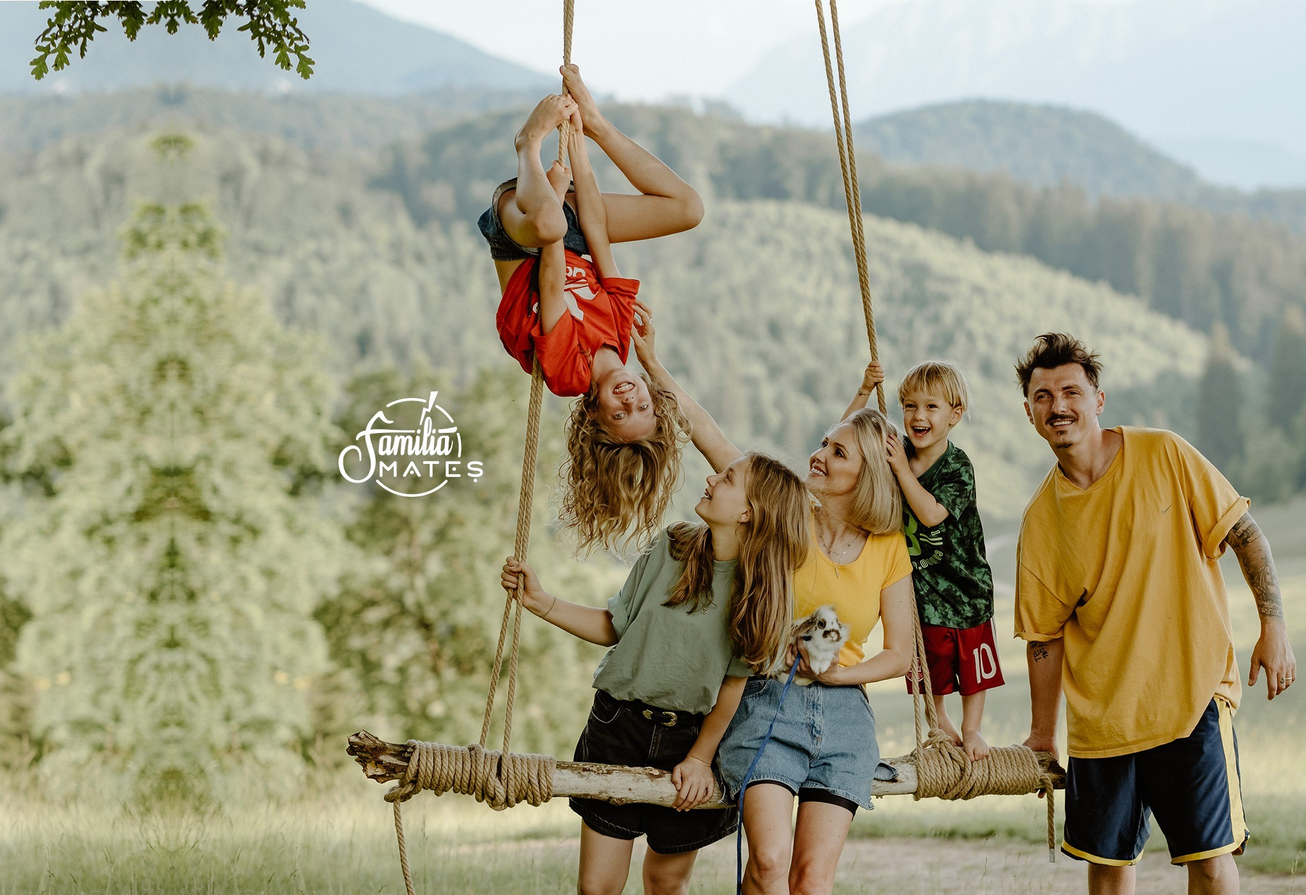
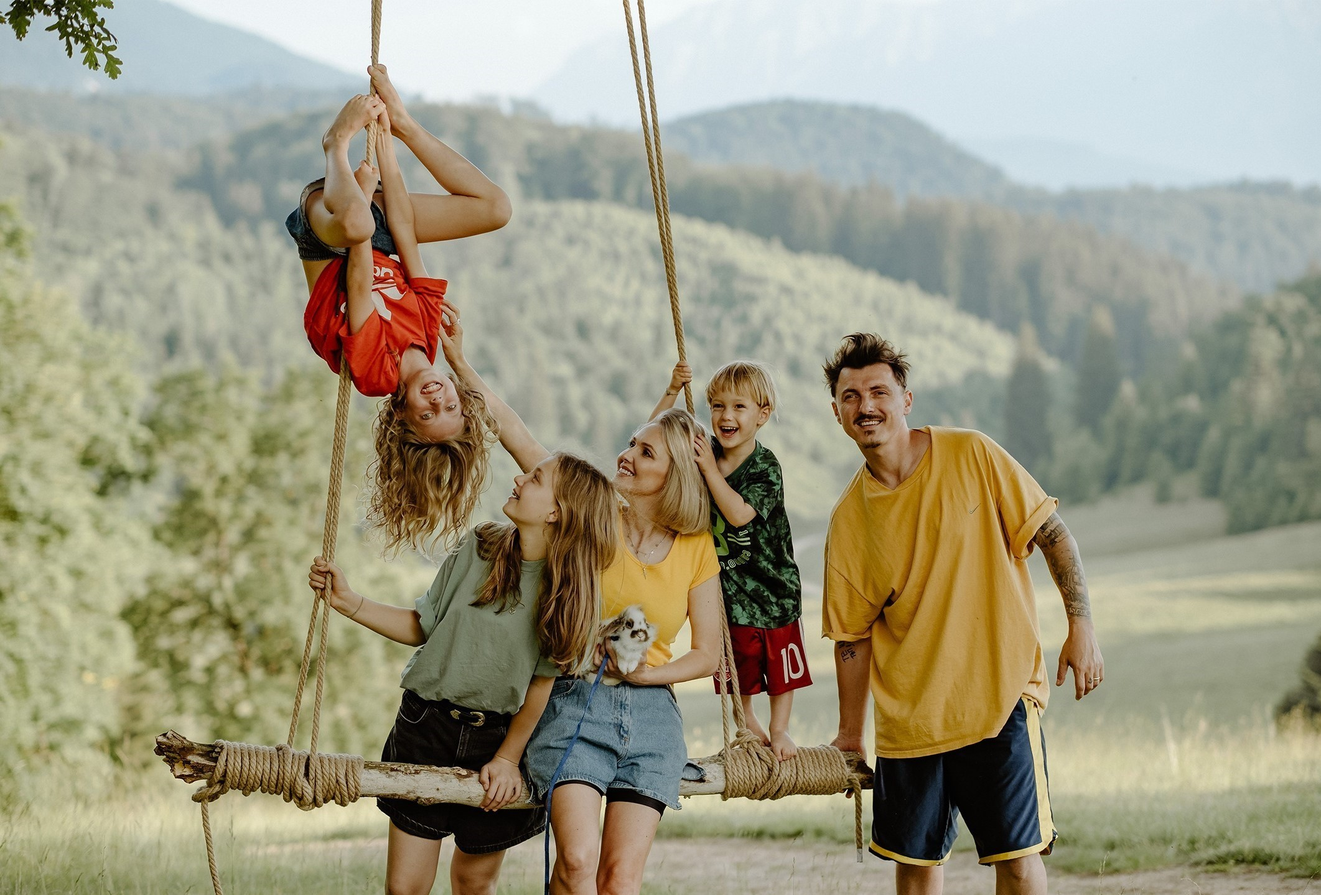
header section - push 3

diff --git a/html/index.html b/html/index.html
@@ -23,26 +23,33 @@
 <body>
 	<!-- START HEADER -->
 	<header>
+		<nav>
+			<div id="logo">
+				<div>PRIZED</div>
+			</div>
+
+		</nav>
+		<section id="header-image">
+
+		</section>
 	</header>
 	<!-- END HEADER -->
 
 	<!-- START MAIN -->
 	<main>
-		<section id="cum-particip" class="centered-section">
-			<div class="section-heading">
-				<hr>
-				<div>Cum particip?</div> 
-				<hr>
+		<section id="title">
+			<div id="sub-heading">
+				Doneaza si ai sansa sa castigi
 			</div>
-			<div class="section-content three-column-grid">
-				<img class="icon" src="resources/images/main/step1.png">
-				<img class="icon" src="resources/images/main/step2.png">
-				<img class="icon" src="resources/images/main/step3.png">
-				<p>Doneaza ca sa participi</p>
-				<p>Un castigator va fi ales </p>
-				<p>Donatia ta ajuta</p>
+			<div id="heading">
+				Castiga o zi de neuitat impreuna <br>cu Familia Mates!
 			</div>
-			
+		</section>
+		<section id="apply">
+			<div class="three-column-grid">
+
+			</div>
+			<div></div>
 		</section>
 		<section id="ce-castig" class="split-section">
 			<div class="section-heading">
@@ -66,6 +73,23 @@
 			</div>
 			<div class="section-content right-side">
 				<img src="resources/images/main/side-img.jpg">
+			</div>
+			
+		</section>
+		
+		<section id="cum-particip" class="centered-section">
+			<div class="section-heading">
+				<hr>
+				<div>Cum particip?</div> 
+				<hr>
+			</div>
+			<div class="section-content three-column-grid">
+				<img class="icon" src="resources/images/main/step1.png">
+				<img class="icon" src="resources/images/main/step2.png">
+				<img class="icon" src="resources/images/main/step3.png">
+				<p>Doneaza ca sa participi</p>
+				<p>Un castigator va fi ales </p>
+				<p>Donatia ta ajuta</p>
 			</div>
 			
 		</section>
@@ -101,9 +125,15 @@
 			<div class="section-content">
 				<div class="three-column-grid">
 					<div id="option-1" class="donation-box">
-						<div>100 de sanse</div>
-						<a href="#">Doneaza 10 ROM </a>
-						<div>Sanse duble</div>
+						<div class="donation-label">
+							100 de sanse
+						</div>
+						<a href="#" class="donation-button">
+							Doneaza 10 ROM
+						</a>
+						<div class="donation-tag">
+							Sanse duble
+						</div>
 					</div>
 					<div id="option-2" class="donation-box">
 						<div>100 de sanse</div>

diff --git a/resources/css/main.css b/resources/css/main.css
@@ -14,7 +14,7 @@ section,footer{
 	justify-items: center;
 	align-items: center;
 
-	padding: 2em 5em;
+	padding: 2em 2em;
 	
 }
 
@@ -86,6 +86,8 @@ section,footer{
 .three-column-grid{
 	display: grid;
 	grid-template-columns: 1fr 1fr 1fr;
+	column-gap: 1em;;
+	row-gap: 1em;;
 
 	justify-items: center;
 	width: 100%;
@@ -106,19 +108,100 @@ section,footer{
 	font-style: unset;
 }
 
-/* DONATION BOX */
+/* HEADER */
 
-.donation-box{
-	border:1px solid black;
-	margin: 1em;
-	padding: 1em;
-	text-align: center;
+header nav{
+	display: table;
+	box-sizing: border-box;
+	height: 3em;
 	width: 100%;
+
+	position: fixed;
+	top: 0;
+	left: 0;
+
+	background-color: #2b3538;
+}
+
+#logo{
+	box-sizing: border-box;
+	display: table-cell;
+	vertical-align: middle;
+	padding: 0 2em;
+}
+
+#logo div{
+
+	max-width: 1150px;
+	margin: 0 auto;
+	color:white;
+
+	font-family: 'Spartan', sans-serif;
+	font-weight: 600;
+	font-size: 1.2em;
+	text-align: center;
 
 }
 
-.donation-box div:first-child{
-	border-bottom:1px solid black;
+#header-image{
+	background: url("../images/main/main-bg.jpg") no-repeat;
+	background-size: cover;
+	background-position: 50% 50%;
+	height: 400px;
+}
+
+/* MAIN */
+main{
+	max-width: 1200px;;
+	margin: 0 auto;
+}
+
+#sub-heading{
+	font-family: 'Spartan', sans-serif;
+	font-weight: 600;
+	font-size: 1.5em;
+	margin-bottom: 0.7em;
+	font-style: italic;
+	
+	text-align: center;
+}
+
+#heading{
+	font-family: 'Spartan', sans-serif;
+	font-weight: 800;
+	line-height: 1.5em;;
+	font-size: 3em;
+	text-align: center;
+
+}
+
+/* DONEAZA SECTION  */
+.donation-box{
+	box-sizing: border-box;
+	border:1px solid black;
+	border-radius: 10px;
+	width: 100%;
+	max-width: 500px;;
+	text-align: center;
+	padding:1em;
+
+}
+
+.donation-label{
+	box-sizing: border-box;
+	display: inline-block;
+	margin: 0 auto;
+	margin-bottom: 1em;;
+	padding: 0 0.5em;;
+}
+
+.donation-button{
+	display: block;
+	padding-bottom: 1em;;
+}
+
+.donation-tag{
+	display: block;
 }
 
 #option-1{
@@ -144,6 +227,7 @@ section,footer{
 #option-5{
 	grid-row: 2/3;
 	grid-column: 2/4;
+	max-width: 1084px;
 }
 
 /* FOOTER */
